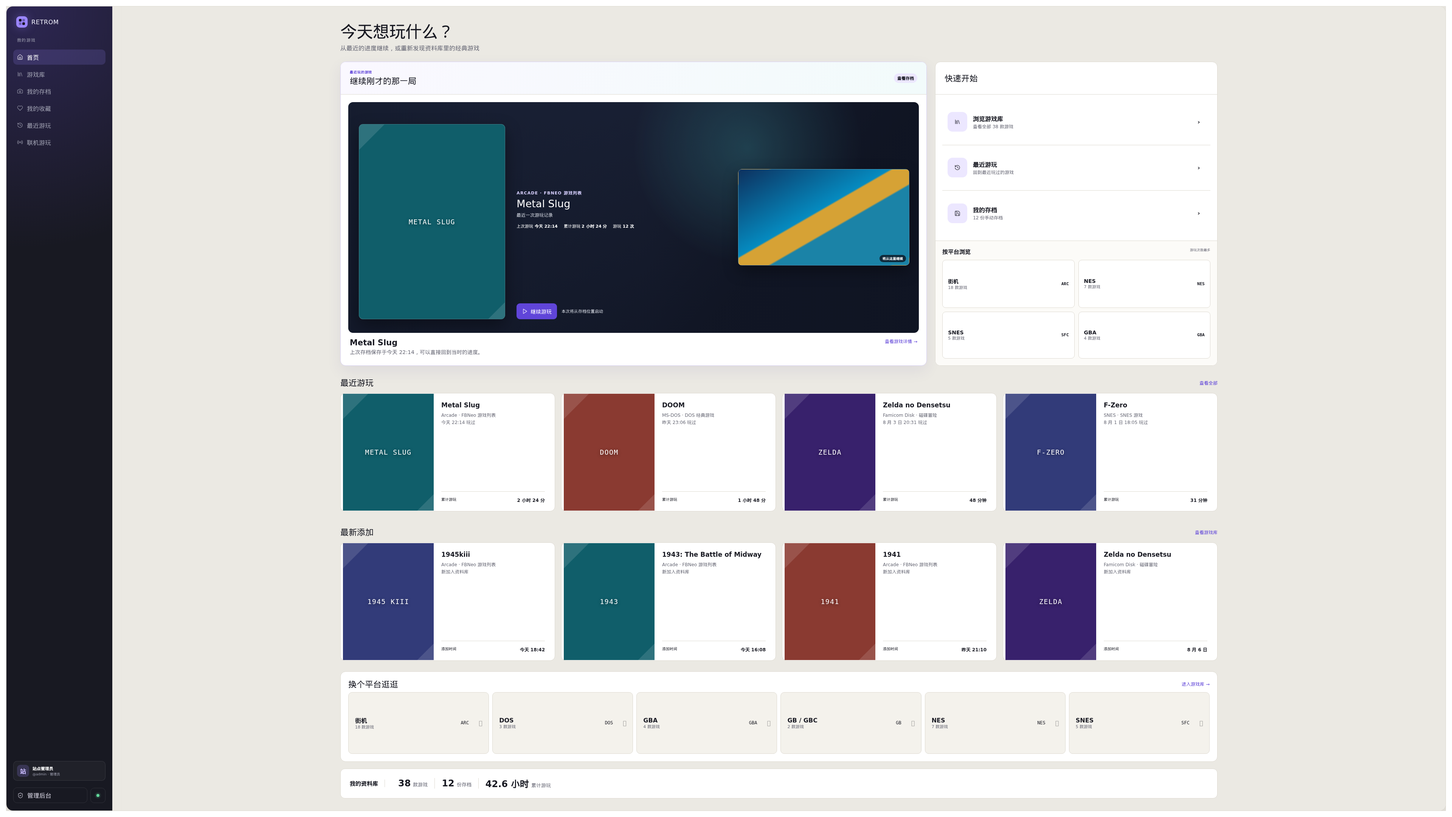
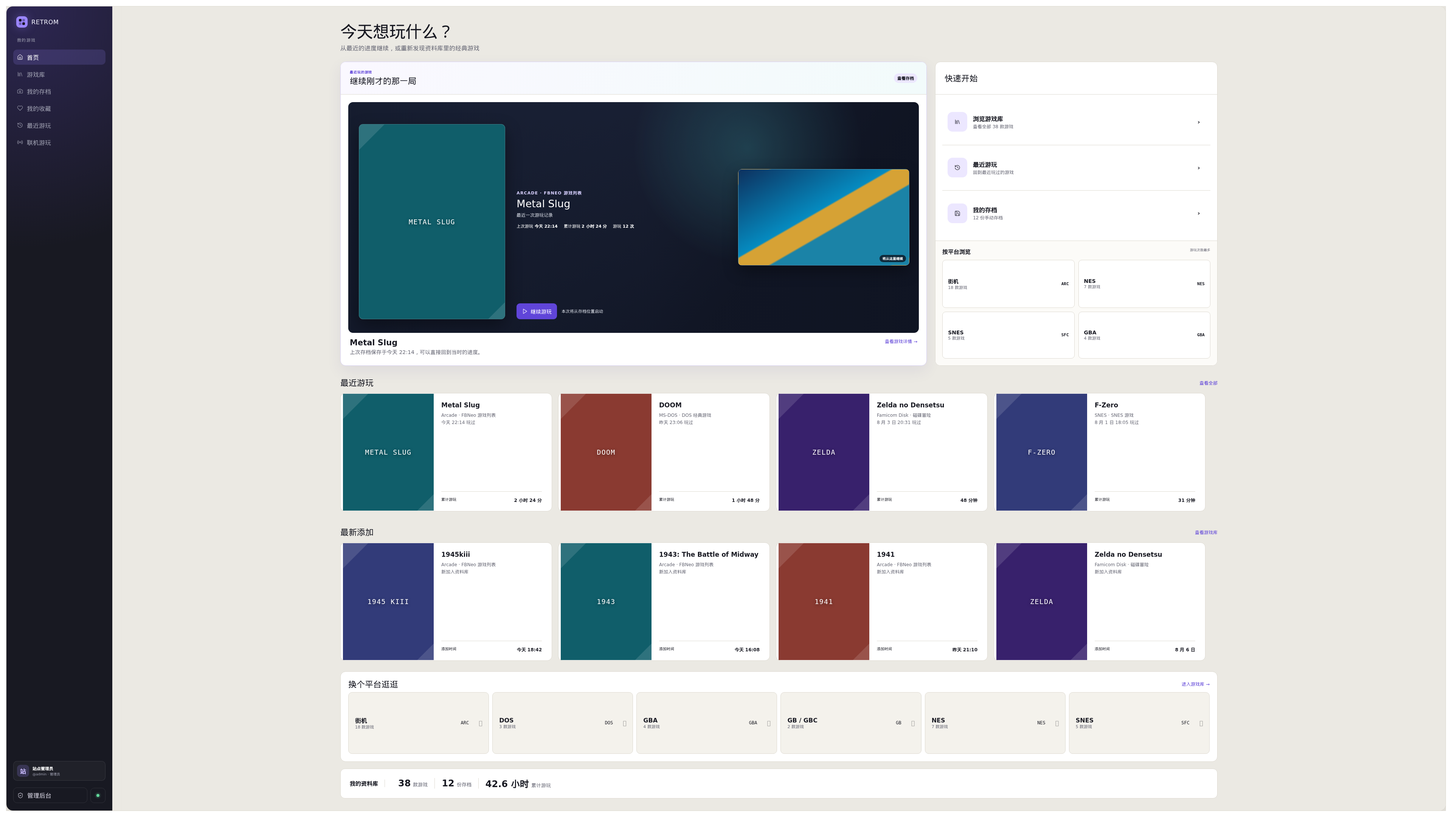
fix: display issue

diff --git a/web/app/admin/reviews/page.tsx b/web/app/admin/reviews/page.tsx
@@ -2,19 +2,21 @@ import { ListFilters } from "@/components/list-filters";
 import { ButtonLink, EmptyState, PageHeader } from "@/components/ui";
 import { scalarSearchParams, withQuery, type ListResponse } from "@/lib/backend";
 import { backendJSON } from "@/lib/server-backend";
-import { ReviewQueue, type ReviewQueueItem } from "@/features/reviews/review-queue";
+import { ReviewQueue, ReviewQueueRecovery, type ReviewQueueItem } from "@/features/reviews/review-queue";
 import { FlashToast } from "@/components/flash-toast";
 import { loadActiveTags } from "@/features/tags/tag-library";
 
 export const metadata = { title: "待审核" };
 
 export default async function ReviewsPage({ searchParams }: { searchParams: Promise<Record<string, string | string[] | undefined>> }) {
-  const values = scalarSearchParams(await searchParams, ["q", "tagId", "importJobId", "pegasusImportId", "platformInstanceId", "blockerCode", "sort"]);
+  const parameters = await searchParams;
+  const values = scalarSearchParams(parameters, ["q", "tagId", "importJobId", "pegasusImportId", "platformInstanceId", "blockerCode", "sort"]);
+  const staleReview = parameters.reviewNotice === "stale";
   const [queue, activeTags] = await Promise.all([
     backendJSON<ListResponse<ReviewQueueItem>>(withQuery("/api/v1/admin/reviews", { ...values, limit: "20" })),
     loadActiveTags(),
   ]);
   const queueKey = new URLSearchParams(values).toString();
   const pegasusImportId = values.pegasusImportId;
-  return <div className="import-workflow-page review-workflow-page"><FlashToast /><PageHeader eyebrow={pegasusImportId ? "Pegasus 导入 / 逐项审核" : "游戏入库"} title={pegasusImportId ? "审核这批 Pegasus 游戏" : "待审核"} description={pegasusImportId ? "这批内容不会自动发布。请逐条核对运行检查、游戏信息和媒体后再作决定。" : "核对运行检查和游戏信息，优先处理等待时间长、运行异常或信息不完整的条目。"} actions={<>{pegasusImportId ? <ButtonLink href={`/admin/imports/server/pegasus/${pegasusImportId}`} secondary>← 返回 Pegasus 任务</ButtonLink> : null}<ButtonLink href="/admin/reviews/history" secondary>审核历史</ButtonLink></>} /><ListFilters action="/admin/reviews" placeholder="输入游戏标题、来源文件或标签" values={values} fixedFilters={pegasusImportId ? [{ name: "pegasusImportId", value: pegasusImportId }] : []} preserveFixedFiltersOnReset={Boolean(pegasusImportId)} textFilters={pegasusImportId ? [] : [{ name: "importJobId", label: "导入批次", placeholder: "输入完整批次编号" }]} filters={[{ name: "tagId", label: "标签", options: [{ value: "", label: "所有标签" }, ...activeTags.map((tag) => ({ value: tag.tagId, label: tag.name }))] }, { name: "blockerCode", label: "运行检查", options: [{ value: "", label: "所有状态" }, { value: "READY", label: "可以发布" }, { value: "DEPENDENCY_MISSING", label: "缺少所需文件" }, { value: "INCOMPATIBLE", label: "当前不兼容" }] }, { name: "sort", label: "排列顺序", options: [{ value: "", label: "等待最久的优先" }, { value: "UPDATED_DESC", label: "最近更新的优先" }] }]} />{queue.items.length === 0 ? <EmptyState title={pegasusImportId ? "这批游戏已经全部处理" : "待审核队列已清空"} description={pegasusImportId ? "没有剩余待审核条目；可以返回 Pegasus 任务查看已发布、已丢弃和异常结果。" : "新导入的游戏完成识别和运行检查后，会进入这里。"} /> : <ReviewQueue key={queueKey} initial={queue} values={values} />}</div>;
+  return <div className="import-workflow-page review-workflow-page"><FlashToast /><ReviewQueueRecovery active={staleReview} values={values} /><PageHeader eyebrow={pegasusImportId ? "Pegasus 导入 / 逐项审核" : "游戏入库"} title={pegasusImportId ? "审核这批 Pegasus 游戏" : "待审核"} description={pegasusImportId ? "这批内容不会自动发布。请逐条核对运行检查、游戏信息和媒体后再作决定。" : "核对运行检查和游戏信息，优先处理等待时间长、运行异常或信息不完整的条目。"} actions={<>{pegasusImportId ? <ButtonLink href={`/admin/imports/server/pegasus/${pegasusImportId}`} secondary>← 返回 Pegasus 任务</ButtonLink> : null}<ButtonLink href="/admin/reviews/history" secondary>审核历史</ButtonLink></>} /><ListFilters action="/admin/reviews" placeholder="输入游戏标题、来源文件或标签" values={values} fixedFilters={pegasusImportId ? [{ name: "pegasusImportId", value: pegasusImportId }] : []} preserveFixedFiltersOnReset={Boolean(pegasusImportId)} textFilters={pegasusImportId ? [] : [{ name: "importJobId", label: "导入批次", placeholder: "输入完整批次编号" }]} filters={[{ name: "tagId", label: "标签", options: [{ value: "", label: "所有标签" }, ...activeTags.map((tag) => ({ value: tag.tagId, label: tag.name }))] }, { name: "blockerCode", label: "运行检查", options: [{ value: "", label: "所有状态" }, { value: "READY", label: "可以发布" }, { value: "DEPENDENCY_MISSING", label: "缺少所需文件" }, { value: "INCOMPATIBLE", label: "当前不兼容" }] }, { name: "sort", label: "排列顺序", options: [{ value: "", label: "等待最久的优先" }, { value: "UPDATED_DESC", label: "最近更新的优先" }] }]} />{queue.items.length === 0 ? <EmptyState title={pegasusImportId ? "这批游戏已经全部处理" : "待审核队列已清空"} description={pegasusImportId ? "没有剩余待审核条目；可以返回 Pegasus 任务查看已发布、已丢弃和异常结果。" : "新导入的游戏完成识别和运行检查后，会进入这里。"} /> : <ReviewQueue key={queueKey} initial={queue} values={values} resetPersisted={staleReview} />}</div>;
 }

diff --git a/web/features/reviews/review-queue.tsx b/web/features/reviews/review-queue.tsx
@@ -9,6 +9,7 @@ import { statusTone } from "@/lib/status";
 import { useAuth } from "@/features/auth/auth-provider";
 import { userStorageKey } from "@/features/auth/storage";
 import { TagChips, type TagReference } from "@/components/tag-picker";
+import { Toast } from "@/components/flash-toast";
 
 export type ReviewQueueItem = {
   itemId: string;
@@ -48,7 +49,24 @@ function formatBytes(value: number) {
   return `${(value / 1024 ** 3).toFixed(2)} GiB`;
 }
 
-export function ReviewQueue({ initial, values }: { initial: ListResponse<ReviewQueueItem>; values: Record<string, string> }) {
+export function ReviewQueueRecovery({ active, values }: { active: boolean; values: Record<string, string> }) {
+  const { context } = useAuth();
+  const listQuery = useMemo(() => queryString(values), [values]);
+  const storageKey = userStorageKey(context.user?.userId, "reviews", `queue:${listQuery}`);
+  const [toast, setToast] = useState(active ? { message: "审核条目已处理或不再可用，待审核队列已刷新。", tone: "warn" as const } : null);
+
+  useEffect(() => {
+    if (!active) return;
+    if (storageKey) sessionStorage.removeItem(storageKey);
+    const current = new URL(window.location.href);
+    current.searchParams.delete("reviewNotice");
+    window.history.replaceState(window.history.state, "", `${current.pathname}${current.search}${current.hash}`);
+  }, [active, storageKey]);
+
+  return <Toast toast={toast} onDismiss={() => setToast(null)} />;
+}
+
+export function ReviewQueue({ initial, values, resetPersisted = false }: { initial: ListResponse<ReviewQueueItem>; values: Record<string, string>; resetPersisted?: boolean }) {
   const { context } = useAuth();
   const listQuery = useMemo(() => queryString(values), [values]);
   const listURL = `/admin/reviews${listQuery ? `?${listQuery}` : ""}`;
@@ -75,6 +93,11 @@ export function ReviewQueue({ initial, values }: { initial: ListResponse<ReviewQ
   }), [items, summaryFilter]);
 
   useEffect(() => {
+    if (resetPersisted) {
+      if (storageKey) sessionStorage.removeItem(storageKey);
+      persistenceReady.current = true;
+      return;
+    }
     if (!storageKey) { persistenceReady.current = true; return; }
     const raw = sessionStorage.getItem(storageKey);
     if (!raw) { persistenceReady.current = true; return; }
@@ -93,7 +116,7 @@ export function ReviewQueue({ initial, values }: { initial: ListResponse<ReviewQ
       sessionStorage.removeItem(storageKey);
     }
     persistenceReady.current = true;
-  }, [initial.items.length, storageKey]);
+  }, [initial.items.length, resetPersisted, storageKey]);
 
   useEffect(() => {
     if (!persistenceReady.current || !storageKey) return;

diff --git a/web/features/reviews/review-queue.test.tsx b/web/features/reviews/review-queue.test.tsx
@@ -1,7 +1,7 @@
 import { act, cleanup, render, screen, waitFor } from "@testing-library/react";
 import userEvent from "@testing-library/user-event";
 import { afterEach, describe, expect, it, vi } from "vitest";
-import { ReviewQueue, type ReviewQueueItem } from "./review-queue";
+import { ReviewQueue, ReviewQueueRecovery, type ReviewQueueItem } from "./review-queue";
 
 vi.mock("@/features/auth/auth-provider", () => ({ useAuth: () => ({ context: { user: { userId: "user-1" } } }) }));
 
@@ -15,6 +15,7 @@ const item: ReviewQueueItem = {
 afterEach(() => {
   cleanup();
   sessionStorage.clear();
+  window.history.replaceState({}, "", "/");
   vi.restoreAllMocks();
   vi.unstubAllGlobals();
 });
@@ -50,6 +51,33 @@ describe("ReviewQueue", () => {
     expect(screen.getByText("已读取 Pegasus 信息")).toBeVisible();
     expect(screen.getByText("等待管理员核对")).toBeVisible();
     expect(screen.getByRole("button", { name: "未找到信息 0" })).toBeVisible();
+  });
+
+  it("ignores a persisted queue after a stale review link is recovered", async () => {
+    const staleItem = { ...item, itemId: "stale-item", draftTitle: "Already processed game" };
+    sessionStorage.setItem("retrom:v2:user:user-1:reviews:queue:", JSON.stringify({
+      items: [staleItem], nextCursor: null, scrollY: 0,
+    }));
+
+    render(<ReviewQueue initial={{ items: [item], nextCursor: null }} values={{}} resetPersisted />);
+
+    await act(async () => {
+      await new Promise<void>((resolve) => window.requestAnimationFrame(() => resolve()));
+    });
+    expect(screen.getByText(item.draftTitle)).toBeVisible();
+    expect(screen.queryByText(staleItem.draftTitle)).not.toBeInTheDocument();
+  });
+
+  it("clears the affected queue cache and consumes a stale-review notice", async () => {
+    const storageKey = "retrom:v2:user:user-1:reviews:queue:importJobId=job-1";
+    sessionStorage.setItem(storageKey, "stale queue");
+    window.history.replaceState({}, "", "/admin/reviews?importJobId=job-1&reviewNotice=stale");
+
+    render(<ReviewQueueRecovery active values={{ importJobId: "job-1" }} />);
+
+    expect(screen.getByRole("status")).toHaveTextContent("审核条目已处理或不再可用");
+    await waitFor(() => expect(sessionStorage.getItem(storageKey)).toBeNull());
+    expect(window.location.pathname + window.location.search).toBe("/admin/reviews?importJobId=job-1");
   });
 
   it("loads only one page while the sentinel remains inside the preload area", async () => {

diff --git a/web/app/admin/reviews/[itemId]/page.tsx b/web/app/admin/reviews/[itemId]/page.tsx
@@ -5,9 +5,10 @@ import { adjacentReviewItemId } from "@/features/reviews/review-navigation";
 import { type ReviewQueueItem } from "@/features/reviews/review-queue";
 import { ReviewValidationGuidance, reviewCompatibilityLabel, type ReviewDependencySnapshot } from "@/features/reviews/review-validation-guidance";
 import { formatBytes, type ListResponse } from "@/lib/backend";
-import { backendJSON } from "@/lib/server-backend";
+import { BackendResponseError, backendJSON } from "@/lib/server-backend";
 import { statusTone } from "@/lib/status";
 import { loadActiveTags } from "@/features/tags/tag-library";
+import { redirect } from "next/navigation";
 
 type DependencySnapshot = ReviewDependencySnapshot & {
   machine?: string;
@@ -43,16 +44,32 @@ function safeReturnTo(raw: string | undefined) {
   return `${parsed.pathname}${parsed.search}`;
 }
 
+async function loadPendingReview(itemId: string) {
+  try {
+    return await backendJSON<Review>(`/api/v1/admin/reviews/${itemId}`);
+  } catch (error) {
+    if (error instanceof BackendResponseError && error.status === 404) return null;
+    throw error;
+  }
+}
+
+function staleReviewReturnTo(returnTo: string) {
+  const parsed = new URL(returnTo, "http://retrom.invalid");
+  parsed.searchParams.set("reviewNotice", "stale");
+  return `${parsed.pathname}${parsed.search}`;
+}
+
 export default async function ReviewDetailPage({ params, searchParams }: { params: Promise<{ itemId: string }>; searchParams: Promise<Record<string, string | string[] | undefined>> }) {
   const { itemId } = await params;
   const queryParameters = await searchParams;
   const returnTo = safeReturnTo(typeof queryParameters.returnTo === "string" ? queryParameters.returnTo : undefined);
   const listQuery = new URL(returnTo, "http://retrom.invalid").search;
   const [review, context, activeTags] = await Promise.all([
-    backendJSON<Review>(`/api/v1/admin/reviews/${itemId}`),
+    loadPendingReview(itemId),
     backendJSON<ListResponse<ReviewQueueItem>>(`/api/v1/admin/reviews${listQuery}${listQuery ? "&" : "?"}limit=20`),
     loadActiveTags(),
   ]);
+  if (!review) redirect(staleReviewReturnTo(returnTo));
   const validationStatus = review.validation?.status ?? "PENDING";
   const nextItemId = adjacentReviewItemId(context.items.map((item) => item.itemId), itemId);
   const sourceDisplayName = review.sourceFiles?.[0]?.name ?? review.sourceManifest.files[0]?.logicalName ?? "游戏文件";

diff --git a/web/e2e/acceptance.spec.ts b/web/e2e/acceptance.spec.ts
@@ -357,6 +357,18 @@ test("ACC-UI-005 user desktop layouts scale at all required viewports", async ({
   await page.screenshot({ path: evidencePath(testInfo, "user-layout.png"), fullPage: true });
 });
 
+test("ACC-UI-005 regression: sparse home rails keep game cards within desktop width caps", async ({ page }) => {
+  await page.goto("/");
+  await expect(page.locator(".home-recent-rail")).toHaveCount(2);
+  const layout = await page.locator(".home-recent-rail").evaluateAll((rails) => ({
+    cardWidths: rails.flatMap((rail) =>
+      [...rail.querySelectorAll<HTMLElement>(".home-recent-card")].map((card) => card.getBoundingClientRect().width)),
+    widthCap: window.matchMedia("(min-width: 2600px) and (min-height: 1600px)").matches ? 560 : 480,
+  }));
+  expect(layout.cardWidths.length).toBeGreaterThan(0);
+  expect(Math.max(...layout.cardWidths)).toBeLessThanOrEqual(layout.widthCap + 1);
+});
+
 test("ACC-UI-006 admin pages remain reachable at desktop breakpoints", async ({ page }, testInfo) => {
   const routes = [
     ["/admin/imports", ".import-workflow-page"], ["/admin/imports/new", ".import-wizard"],
@@ -629,6 +641,11 @@ test("ACC-UI-008 large review queue preserves filters, pagination, draft safety,
   await page.getByRole("link", { name: "返回待审核列表" }).click();
   await expect(page).toHaveURL(new RegExp(`importJobId=${primaryJob}`));
   await expect(rows).toHaveCount(20);
+  await page.goto(`/admin/reviews/${itemId(3)}?returnTo=${encodeURIComponent(`/admin/reviews?importJobId=${primaryJob}`)}`);
+  await expect(page).toHaveURL(new RegExp(`/admin/reviews\\?importJobId=${primaryJob}$`));
+  await expect(page.locator(".app-toast")).toContainText("审核条目已处理或不再可用");
+  await expect(page.getByRole("heading", { name: "暂时无法读取数据" })).toHaveCount(0);
+  await expect(page.locator(`[data-review-item="${itemId(3)}"]`)).toHaveCount(0);
   await page.getByRole("button", { name: "继续加载" }).click();
   await expect(rows).toHaveCount(40);
   await page.getByRole("button", { name: "继续加载" }).click();

diff --git a/docs/design/retrom-ui-review.fragment.html b/docs/design/retrom-ui-review.fragment.html
@@ -343,7 +343,7 @@
     #retrom-ui-review .rt-home-layer-head h2 { margin: 0; font-size: 16px; }
     #retrom-ui-review .rt-home-layer-head p { margin: 3px 0 0; color: var(--retrom-muted); font-size: 10px; }
     #retrom-ui-review .rt-home-rail { overflow-x: auto; display: grid; grid-auto-flow: column; gap: 12px; padding-bottom: 7px; }
-    #retrom-ui-review .rt-home-recent-rail { grid-auto-columns: minmax(330px, 1fr); }
+    #retrom-ui-review .rt-home-recent-rail { grid-auto-columns: minmax(330px, 480px); }
     #retrom-ui-review .rt-home-recent-card { min-height: 144px; overflow: hidden; display: grid; grid-template-columns: 144px minmax(0,1fr); border: 1px solid var(--retrom-line); border-radius: 13px; color: var(--retrom-text); background: var(--retrom-panel); text-align: left; }
     #retrom-ui-review .rt-home-recent-card .rt-cover { width: 144px; height: 100%; border-radius: 0; }
     #retrom-ui-review .rt-home-recent-copy { min-width: 0; padding: 13px; display: flex; flex-direction: column; }
@@ -1663,7 +1663,7 @@
       #retrom-ui-review .rt-home-layer-head { min-height: 54px; margin: 0; align-items: center; }
       #retrom-ui-review .rt-home-layer-head h2 { font-size: 22px; }
       #retrom-ui-review .rt-home-rail { min-height: 0; height: 100%; padding-bottom: 10px; }
-      #retrom-ui-review .rt-home-recent-rail { grid-auto-columns: minmax(480px, 1fr); gap: 16px; }
+      #retrom-ui-review .rt-home-recent-rail { grid-auto-columns: minmax(480px, 560px); gap: 16px; }
       #retrom-ui-review .rt-home-recent-card { height: 100%; min-height: 0; grid-template-columns: clamp(240px, 34%, 340px) minmax(0,1fr); }
       #retrom-ui-review .rt-home-recent-card .rt-cover { width: 100%; }
       #retrom-ui-review .rt-home-recent-copy { padding: 20px; }

diff --git a/docs/design/retrom-ui-review.html b/docs/design/retrom-ui-review.html
@@ -366,7 +366,7 @@
     #retrom-ui-review .rt-home-layer-head h2 { margin: 0; font-size: 16px; }
     #retrom-ui-review .rt-home-layer-head p { margin: 3px 0 0; color: var(--retrom-muted); font-size: 10px; }
     #retrom-ui-review .rt-home-rail { overflow-x: auto; display: grid; grid-auto-flow: column; gap: 12px; padding-bottom: 7px; }
-    #retrom-ui-review .rt-home-recent-rail { grid-auto-columns: minmax(330px, 1fr); }
+    #retrom-ui-review .rt-home-recent-rail { grid-auto-columns: minmax(330px, 480px); }
     #retrom-ui-review .rt-home-recent-card { min-height: 144px; overflow: hidden; display: grid; grid-template-columns: 144px minmax(0,1fr); border: 1px solid var(--retrom-line); border-radius: 13px; color: var(--retrom-text); background: var(--retrom-panel); text-align: left; }
     #retrom-ui-review .rt-home-recent-card .rt-cover { width: 144px; height: 100%; border-radius: 0; }
     #retrom-ui-review .rt-home-recent-copy { min-width: 0; padding: 13px; display: flex; flex-direction: column; }
@@ -1686,7 +1686,7 @@
       #retrom-ui-review .rt-home-layer-head { min-height: 54px; margin: 0; align-items: center; }
       #retrom-ui-review .rt-home-layer-head h2 { font-size: 22px; }
       #retrom-ui-review .rt-home-rail { min-height: 0; height: 100%; padding-bottom: 10px; }
-      #retrom-ui-review .rt-home-recent-rail { grid-auto-columns: minmax(480px, 1fr); gap: 16px; }
+      #retrom-ui-review .rt-home-recent-rail { grid-auto-columns: minmax(480px, 560px); gap: 16px; }
       #retrom-ui-review .rt-home-recent-card { height: 100%; min-height: 0; grid-template-columns: clamp(240px, 34%, 340px) minmax(0,1fr); }
       #retrom-ui-review .rt-home-recent-card .rt-cover { width: 100%; }
       #retrom-ui-review .rt-home-recent-copy { padding: 20px; }

diff --git a/web/features/home/home.css b/web/features/home/home.css
@@ -80,7 +80,7 @@
 .home-section-head > a { flex: 0 0 auto; color: var(--purple-dark); font-size: 12px; font-weight: 750; }
 .home-horizontal-rail { overflow-x: auto; overflow-y: hidden; display: grid; grid-auto-flow: column; overscroll-behavior-inline: contain; scrollbar-color: #b7aecf transparent; scrollbar-width: thin; }
 .home-horizontal-rail:focus-visible { outline-offset: 4px; }
-.home-recent-rail { grid-auto-columns: minmax(330px, 1fr); gap: 13px; padding-bottom: 8px; }
+.home-recent-rail { grid-auto-columns: minmax(330px, 480px); gap: 13px; padding-bottom: 8px; }
 .home-recent-card { min-width: 0; min-height: 144px; overflow: hidden; display: grid; grid-template-columns: 144px minmax(0, 1fr); border: 1px solid var(--line); border-radius: 13px; background: white; }
 .home-recent-card:hover { border-color: #c9c1f2; box-shadow: 0 8px 22px rgb(24 32 51 / 7%); }
 .home-recent-cover { position: relative; overflow: hidden; display: grid; place-items: center; color: rgb(255 255 255 / 42%); background: radial-gradient(circle at 65% 30%, rgb(78 212 221 / 46%), transparent 22%), linear-gradient(145deg, #303958, #171d30 65%); font: 800 10px/1 ui-monospace, monospace; letter-spacing: .12em; }

diff --git a/web/lib/server-backend.ts b/web/lib/server-backend.ts
@@ -3,6 +3,13 @@ import { cookies } from "next/headers";
 
 const backend = process.env.NEXT_BACKEND_ORIGIN ?? "http://127.0.0.1:8080";
 
+export class BackendResponseError extends Error {
+  constructor(readonly path: string, readonly status: number) {
+    super(`Retrom API ${path} returned ${status}`);
+    this.name = "BackendResponseError";
+  }
+}
+
 export async function backendJSON<T>(path: string): Promise<T> {
   const cookieStore = await cookies();
   const sessionCookies = ["retrom_session", "__Host-retrom_session"]
@@ -13,6 +20,6 @@ export async function backendJSON<T>(path: string): Promise<T> {
   const headers = new Headers({ Accept: "application/json" });
   if (sessionCookies) headers.set("Cookie", sessionCookies);
   const response = await fetch(`${backend}${path}`, { cache: "no-store", headers });
-  if (!response.ok) throw new Error(`Retrom API ${path} returned ${response.status}`);
+  if (!response.ok) throw new BackendResponseError(path, response.status);
   return response.json() as Promise<T>;
 }

diff --git a/web/features/home/home-wide.css b/web/features/home/home-wide.css
@@ -107,7 +107,7 @@
   .home-section-head { min-height: 54px; margin: 0; align-items: center; }
   .home-section-head h2 { font-size: 22px; }
   .home-section-head > a { font-size: 15px; }
-  .home-recent-rail { min-height: 0; height: 100%; grid-auto-columns: minmax(480px, 1fr); gap: 16px; padding-bottom: 10px; }
+  .home-recent-rail { min-height: 0; height: 100%; grid-auto-columns: minmax(480px, 560px); gap: 16px; padding-bottom: 10px; }
   .home-recent-card { height: 100%; min-height: 0; grid-template-columns: clamp(240px, 34%, 340px) minmax(0, 1fr); }
   .home-recent-copy { padding: 20px; }
   .home-recent-copy > strong { font-size: 17px; }

diff --git a/docs/project-acceptance.md b/docs/project-acceptance.md
@@ -895,7 +895,7 @@ python3 data/example/verify-fixtures.py
 - 上限：180 秒。
 - 执行：`make acceptance-case CASE=ACC-UI-005`。
 - 流程：在 `1280×800`、`2560×1440` CSS viewport，以及 3840×2160、100% scale viewport 分别打开首页、游戏库、详情、存档、收藏、最近游玩、联机大厅、账户和 Player Shell；首页另在物理 4K 高缩放的代表性 `1920×950` CSS viewport 复测。
-- 通过标准：无页面级横向溢出、遮挡、过小控件或跨屏长文本；同一 viewport 下首页、游戏库、详情、存档、收藏、最近游玩、联机大厅与账户页的主容器相对应用内容区的左、右间距分别一致，测量误差均不超过 1px。3840×2160 与 `1920×950` 首页五层均完整落在首屏且 `documentElement.scrollHeight <= clientHeight`，不出现纵向滚动条，紧凑态仍保持正文和卡片信息清晰可读。3840×2160 首页宽度至少占应用内容区 65%，最末层底边距离 viewport 底部不超过 48px，避免内容聚集在屏幕上半部。三个基准 viewport 的游戏库分别为 4/6/8 列，共享页面有效内容宽度不超过 2320px。详情页在 `2560×1440` 与 `3840×2160` 下 Hero、信息条和最近 4 份存档均完整落在首屏，截图保持比例，Drawer/对话框不推动页面布局；`1280×800` 下关键启动操作和存档区仍在首屏可达。Player stage 为无边距的 100vw×100dvh；运行后 58px toolbar 自动移出画面，只有指针进入顶部 32px、键盘操作或工具栏获焦才恢复，画面中央 pointermove 不改变可见性，标题/Core/平台和同步状态不挤压主操作。点击顶部 toolbar 的标题空白或任一操作都先暂停且保持暂停，只有点击游戏画面恢复；点击模拟器设置控件不能误恢复。EmulatorJS 原生底部工具栏启动后及靠近底边时始终隐藏；Retrom 的“模拟器设置”首次点击直接显示包含控制、显示、Core 设置、音量、静音和收起的自绘工具栏，桥接出来的原生设置面板与自绘栏均不存在 EmulatorJS 退出按钮。canvas rect 完全在 viewport 内，CSS/drawing-buffer 宽高比误差 ≤0.01，宽或高至少一边与 viewport 对应边误差 ≤2px，另一边按 contain 公式在水平和垂直方向居中，未被裁切或拉伸。
+- 通过标准：无页面级横向溢出、遮挡、过小控件或跨屏长文本；同一 viewport 下首页、游戏库、详情、存档、收藏、最近游玩、联机大厅与账户页的主容器相对应用内容区的左、右间距分别一致，测量误差均不超过 1px。首页最近游玩和最新添加在稀疏数据下从左侧自然排列，常规桌面单卡宽度不超过 480px，4K 布局不超过 560px，不得拉伸填满轨道。3840×2160 与 `1920×950` 首页五层均完整落在首屏且 `documentElement.scrollHeight <= clientHeight`，不出现纵向滚动条，紧凑态仍保持正文和卡片信息清晰可读。3840×2160 首页宽度至少占应用内容区 65%，最末层底边距离 viewport 底部不超过 48px，避免内容聚集在屏幕上半部。三个基准 viewport 的游戏库分别为 4/6/8 列，共享页面有效内容宽度不超过 2320px。详情页在 `2560×1440` 与 `3840×2160` 下 Hero、信息条和最近 4 份存档均完整落在首屏，截图保持比例，Drawer/对话框不推动页面布局；`1280×800` 下关键启动操作和存档区仍在首屏可达。Player stage 为无边距的 100vw×100dvh；运行后 58px toolbar 自动移出画面，只有指针进入顶部 32px、键盘操作或工具栏获焦才恢复，画面中央 pointermove 不改变可见性，标题/Core/平台和同步状态不挤压主操作。点击顶部 toolbar 的标题空白或任一操作都先暂停且保持暂停，只有点击游戏画面恢复；点击模拟器设置控件不能误恢复。EmulatorJS 原生底部工具栏启动后及靠近底边时始终隐藏；Retrom 的“模拟器设置”首次点击直接显示包含控制、显示、Core 设置、音量、静音和收起的自绘工具栏，桥接出来的原生设置面板与自绘栏均不存在 EmulatorJS 退出按钮。canvas rect 完全在 viewport 内，CSS/drawing-buffer 宽高比误差 ≤0.01，宽或高至少一边与 viewport 对应边误差 ≤2px，另一边按 contain 公式在水平和垂直方向居中，未被裁切或拉伸。
 - 证据：三个 viewport 的布局测量、overflow 断言和页面截图。
 
 ### ACC-UI-006：管理侧 4K
@@ -918,8 +918,8 @@ python3 data/example/verify-fixtures.py
 
 - 上限：180 秒。
 - 执行：`make acceptance-case CASE=ACC-UI-008`。
-- 流程：创建两个 ImportJob，其中一个含 60 个 REVIEW_PENDING Item、另一个含 3 个；从任务页进入前者的待审核，加载第二页后选择第 57 项，点击一次“重新运行检查”并记录 popup 与 Preview 请求，再修改标题并等待实时保存，切换到第 3 项并返回。修改第 3 项草稿并等待实时保存，选择第 58 项后用浏览器前进/后退；最后 Approve 第 3 项并 Discard 第 58 项。分别在 1280×800 和 3840×2160 执行，并用键盘完成一次筛选和非顺序选中。
-- 通过标准：任务入口带精确 `importJobId`，队列只显示该批 60 项且可清除筛选查看 63 项；每行可辨认来源、草稿标题、批次、目录、Validation/Blocker、候选数量和更新时间，cursor 分页无重复/漏项。同一次停留在底部预加载区只请求一页且没有并发重复请求，哨兵离开并再次进入后才自动取下一页，手动“继续加载”仍可用。3840 下详情的“发布成什么”与左侧两容器堆叠总高一致，元信息位于中间、当前封面位于最右；简介标签与文本域间距不超过 8px，剩余栏高扩展文本域而不是标签空白；封面等比占满栏内剩余高度且底边对齐内容底边，不受固定最大高度限制，也不出现重复的候选摘要或信息来源卡片。审核决定中的“重新运行检查 / 运行游戏、丢弃条目 / 通过并发布”按两行两列显示，四个按钮计算宽度与高度一致，Tab 顺序同视觉顺序；“重新运行检查”刷新 Validation 与发布状态但不产生 popup 或 `/previews` 请求，“运行游戏”仍是唯一创建审核 Preview 的入口；页首截图槽显示当前 READY 或阻断 Validation 的第 5 秒截图，阻断截图出现后发布按钮解除置灰，且占位/图片切换不改变外层摘要卡片高度。1280 下列表/详情路由明确分离且详情顺序折叠为单栏。选择任意项都会更新 `/admin/reviews/:itemId` 并保留筛选、已加载页和滚动位置，前进/后退可恢复。字段和来源修改经防抖串行实时保存，离页前已成功冲刷且没有额外“保存草稿”按钮；决策后只移除对应行并聚焦相邻项。页面没有批量 Approve/Discard，所有最终决策各自使用当前 ETag/Idempotency-Key/ReviewEvent，两个批次不会串项。
+- 流程：创建两个 ImportJob，其中一个含 60 个 REVIEW_PENDING Item、另一个含 3 个；从任务页进入前者的待审核，加载第二页后选择第 57 项，点击一次“重新运行检查”并记录 popup 与 Preview 请求，再修改标题并等待实时保存，切换到第 3 项并返回。修改第 3 项草稿并等待实时保存，选择第 58 项后用浏览器前进/后退；Approve 第 3 项后再次直达它的旧详情 URL，再 Discard 第 58 项。分别在 1280×800 和 3840×2160 执行，并用键盘完成一次筛选和非顺序选中。
+- 通过标准：任务入口带精确 `importJobId`，队列只显示该批 60 项且可清除筛选查看 63 项；每行可辨认来源、草稿标题、批次、目录、Validation/Blocker、候选数量和更新时间，cursor 分页无重复/漏项。同一次停留在底部预加载区只请求一页且没有并发重复请求，哨兵离开并再次进入后才自动取下一页，手动“继续加载”仍可用。3840 下详情的“发布成什么”与左侧两容器堆叠总高一致，元信息位于中间、当前封面位于最右；简介标签与文本域间距不超过 8px，剩余栏高扩展文本域而不是标签空白；封面等比占满栏内剩余高度且底边对齐内容底边，不受固定最大高度限制，也不出现重复的候选摘要或信息来源卡片。审核决定中的“重新运行检查 / 运行游戏、丢弃条目 / 通过并发布”按两行两列显示，四个按钮计算宽度与高度一致，Tab 顺序同视觉顺序；“重新运行检查”刷新 Validation 与发布状态但不产生 popup 或 `/previews` 请求，“运行游戏”仍是唯一创建审核 Preview 的入口；页首截图槽显示当前 READY 或阻断 Validation 的第 5 秒截图，阻断截图出现后发布按钮解除置灰，且占位/图片切换不改变外层摘要卡片高度。1280 下列表/详情路由明确分离且详情顺序折叠为单栏。选择任意项都会更新 `/admin/reviews/:itemId` 并保留筛选、已加载页和滚动位置，前进/后退可恢复。字段和来源修改经防抖串行实时保存，离页前已成功冲刷且没有额外“保存草稿”按钮；决策后只移除对应行并聚焦相邻项。已处理条目的旧详情 URL 返回原筛选队列、提示条目已处理或不再可用、清除对应浏览器队列快照且不显示通用故障页。页面没有批量 Approve/Discard，所有最终决策各自使用当前 ETag/Idempotency-Key/ReviewEvent，两个批次不会串项。
 - 证据：API query/cursor、route 序列、键盘 trace、决策前后队列 DOM 及两个 viewport 的当前截图。
 
 ### ACC-UI-009：账户与用户管理全流程
